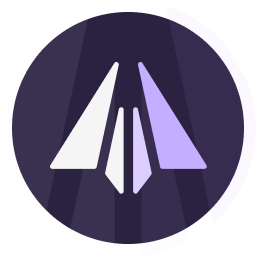
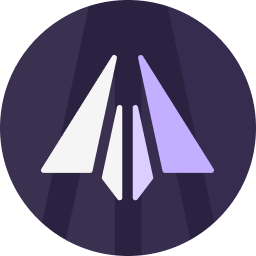
fix: taskbar on Windows fix: more branding fix: smth

Changed region(s): [[0.0, 0.0, 1.0, 1.0], [0.1562, 0.2188, 0.8438, 0.7812]]

diff --git a/Telegram/SourceFiles/ayu/ui/ayu_assets.cpp b/Telegram/SourceFiles/ayu/ui/ayu_assets.cpp
@@ -8,9 +8,25 @@
 #include "ayu_assets.h"
 #include "ayu/ayu_settings.h"
 
-QString LAST_LOADED_NAME;
-QImage LAST_LOADED;
-QImage LAST_LOADED_NO_MARGIN;
+static QString LAST_LOADED_NAME;
+static QImage LAST_LOADED;
+static QImage LAST_LOADED_NO_MARGIN;
+
+void loadAppIco() {
+	auto settings = &AyuSettings::getInstance();
+
+	QString appDataPath = QDir::fromNativeSeparators(qgetenv("APPDATA"));
+	QString tempIconPath = appDataPath + "/AyuGram.ico";
+
+	// workaround for read-only file
+	auto f = QFile(tempIconPath);
+	if (f.exists()) {
+		f.setPermissions(QFile::WriteOther);
+		f.remove();
+	}
+	f.close();
+	QFile::copy(qsl(":/gui/art/ayu/%1/logo256_no_margin.ico").arg(settings->appIcon), tempIconPath);
+}
 
 void loadIcons()
 {
@@ -18,57 +34,25 @@ void loadIcons()
 	if (LAST_LOADED_NAME != settings->appIcon)
 	{
 		LAST_LOADED_NAME = settings->appIcon;
-		if (settings->appIcon == AyuSettings::DEFAULT_ICON)
-		{
-			LAST_LOADED = logo();
-			LAST_LOADED_NO_MARGIN = logoNoMargin();
-		}
-		else if (settings->appIcon == AyuSettings::ALT_ICON)
-		{
-			LAST_LOADED = logoAlt();
-			LAST_LOADED_NO_MARGIN = logoAltNoMargin();
-		}
-		else if (settings->appIcon == AyuSettings::NOTHING_ICON)
-		{
-			LAST_LOADED = logoNothing();
-			LAST_LOADED_NO_MARGIN = logoNothingNoMargin();
-		}
-		else
-		{
-			LAST_LOADED = logo();
-			LAST_LOADED_NO_MARGIN = logoNoMargin();
-		}
+
+		LAST_LOADED = QImage(qsl(":/gui/art/ayu/%1/logo256.png").arg(settings->appIcon));
+		LAST_LOADED_NO_MARGIN = QImage(qsl(":/gui/art/ayu/%1/logo256_no_margin.png").arg(settings->appIcon));
 	}
 }
 
-QImage logo()
+QImage logoPreview()
 {
-	return QImage(qsl(":/gui/art/logo_256.png"));
+	return QImage(qsl(":/gui/art/ayu/default/logo256.png"));
 }
 
-QImage logoNoMargin()
-{
-	return QImage(qsl(":/gui/art/logo_256_no_margin.png"));
-}
-
-QImage logoAlt()
+QImage logoAltPreview()
 {
 	return QImage(qsl(":/gui/art/ayu/alt/logo256.png"));
 }
 
-QImage logoAltNoMargin()
-{
-	return QImage(qsl(":/gui/art/ayu/alt/logo256_no_margin.png"));
-}
-
-QImage logoNothing()
+QImage logoNothingPreview()
 {
 	return QImage(qsl(":/gui/art/ayu/nothing/logo256.png"));
-}
-
-QImage logoNothingNoMargin()
-{
-	return QImage(qsl(":/gui/art/ayu/nothing/logo256_no_margin.png"));
 }
 
 QString currentAppLogoName()

diff --git a/Telegram/SourceFiles/ayu/ui/settings/icon_picker.cpp b/Telegram/SourceFiles/ayu/ui/settings/icon_picker.cpp
@@ -9,12 +9,17 @@
 #include "ayu/ayu_settings.h"
 #include "core/application.h"
 #include "styles/style_layers.h"
+#include "tray.h"
 
 #include "ayu/ui/ayu_assets.h"
 #include "main/main_domain.h"
 #include "styles/style_ayu_styles.h"
 #include "ui/painter.h"
 #include "window/main_window.h"
+
+#ifdef Q_OS_WIN
+#include "ayu/utils/windows_utils.h"
+#endif
 
 void drawIcon(QPainter& p, const QImage& icon, int offset, bool selected)
 {
@@ -40,9 +45,9 @@ void IconPicker::paintEvent(QPaintEvent* e)
 	Painter p(this);
 	PainterHighQualityEnabler hq(p);
 
-	auto icon1 = logo().scaled(64, 64, Qt::KeepAspectRatio, Qt::SmoothTransformation);
-	auto icon2 = logoAlt().scaled(64, 64, Qt::KeepAspectRatio, Qt::SmoothTransformation);
-	auto icon3 = logoNothing().scaled(64, 64, Qt::KeepAspectRatio, Qt::SmoothTransformation);
+	auto icon1 = logoPreview().scaled(64, 64, Qt::KeepAspectRatio, Qt::SmoothTransformation);
+	auto icon2 = logoAltPreview().scaled(64, 64, Qt::KeepAspectRatio, Qt::SmoothTransformation);
+	auto icon3 = logoNothingPreview().scaled(64, 64, Qt::KeepAspectRatio, Qt::SmoothTransformation);
 
 	// todo: center
 	drawIcon(p, icon1, 0, currentAppLogoName() == AyuSettings::DEFAULT_ICON);
@@ -76,8 +81,14 @@ void IconPicker::mousePressEvent(QMouseEvent* e)
 	{
 		AyuSettings::save();
 
+#ifdef Q_OS_WIN
+		loadAppIco();
+		reloadAppIconFromTaskBar();
+#endif
+
 		Window::OverrideApplicationIcon(currentAppLogo());
 		Core::App().refreshApplicationIcon();
+		Core::App().tray().updateIconCounters();
 		Core::App().domain().notifyUnreadBadgeChanged();
 
 		repaint();

diff --git a/Telegram/SourceFiles/ayu/utils/windows_utils.cpp b/Telegram/SourceFiles/ayu/utils/windows_utils.cpp
@@ -1,0 +1,46 @@
+// This is the source code of AyuGram for Desktop.
+//
+// We do not and cannot prevent the use of our code,
+// but be respectful and credit the original author.
+//
+// Copyright @Radolyn, 2023
+#include "windows_utils.h"
+
+#include <ShlObj_core.h>
+
+void reloadAppIconFromTaskBar() {
+	QString appdata = QDir::fromNativeSeparators(qgetenv("APPDATA"));
+	QString ayugramIconPath = appdata + "/AyuGram.ico";
+
+	QString shortcut = appdata + "/Microsoft/Internet Explorer/Quick Launch/User Pinned/TaskBar/AyuGram Desktop.lnk";
+	if (!QFile::exists(shortcut)) {
+		shortcut = appdata + "/Microsoft/Internet Explorer/Quick Launch/User Pinned/TaskBar/AyuGram.lnk";
+	}
+
+	if (QFile::exists(shortcut)) {
+		IShellLink *pShellLink = NULL;
+		IPersistFile *pPersistFile = NULL;
+
+		HRESULT hr = CoCreateInstance(CLSID_ShellLink, NULL, CLSCTX_INPROC_SERVER, IID_IShellLink,
+		                              (void **) &pShellLink);
+		if (SUCCEEDED(hr)) {
+			hr = pShellLink->QueryInterface(IID_IPersistFile, (void **) &pPersistFile);
+			if (SUCCEEDED(hr)) {
+				WCHAR wszShortcutPath[MAX_PATH];
+				shortcut.toWCharArray(wszShortcutPath);
+				wszShortcutPath[shortcut.length()] = '\0';
+
+				if (SUCCEEDED(pPersistFile->Load(wszShortcutPath, STGM_READWRITE))) {
+					pShellLink->SetIconLocation(ayugramIconPath.toStdWString().c_str(), 0);
+					pPersistFile->Save(wszShortcutPath, TRUE);
+				}
+
+				pPersistFile->Release();
+			}
+
+			pShellLink->Release();
+		}
+
+		SHChangeNotify(SHCNE_ASSOCCHANGED, SHCNF_IDLIST, NULL, NULL);
+	}
+}

diff --git a/Telegram/SourceFiles/platform/win/windows_app_user_model_id.cpp b/Telegram/SourceFiles/platform/win/windows_app_user_model_id.cpp
@@ -20,9 +20,9 @@ namespace Platform {
 namespace AppUserModelId {
 namespace {
 
-const PROPERTYKEY pkey_AppUserModel_ID = { { 0x9F4C2855, 0x9F79, 0x4B39, { 0xA8, 0xD0, 0xE1, 0xD4, 0x2D, 0xE1, 0xD5, 0xF3 } }, 5 };
-const PROPERTYKEY pkey_AppUserModel_StartPinOption = { { 0x9F4C2855, 0x9F79, 0x4B39, { 0xA8, 0xD0, 0xE1, 0xD4, 0x2D, 0xE1, 0xD5, 0xF3 } }, 12 };
-const PROPERTYKEY pkey_AppUserModel_ToastActivator = { { 0x9F4C2855, 0x9F79, 0x4B39, { 0xA8, 0xD0, 0xE1, 0xD4, 0x2D, 0xE1, 0xD5, 0xF3 } }, 26 };
+const PROPERTYKEY pkey_AppUserModel_ID = { { 0x9F4C2666, 0x9F79, 0x4B39, { 0xA8, 0xD0, 0xE1, 0xD4, 0x2D, 0xE1, 0xD5, 0xF3 } }, 5 };
+const PROPERTYKEY pkey_AppUserModel_StartPinOption = { { 0x9F4C2666, 0x9F79, 0x4B39, { 0xA8, 0xD0, 0xE1, 0xD4, 0x2D, 0xE1, 0xD5, 0xF3 } }, 12 };
+const PROPERTYKEY pkey_AppUserModel_ToastActivator = { { 0x9F4C2666, 0x9F79, 0x4B39, { 0xA8, 0xD0, 0xE1, 0xD4, 0x2D, 0xE1, 0xD5, 0xF3 } }, 26 };
 
 #ifdef OS_WIN_STORE
 const WCHAR AppUserModelIdRelease[] = L"Telegram.TelegramDesktop.Store";

diff --git a/Telegram/SourceFiles/intro/intro_step.cpp b/Telegram/SourceFiles/intro/intro_step.cpp
@@ -38,6 +38,10 @@ https://github.com/telegramdesktop/tdesktop/blob/master/LEGAL
 #include "styles/style_intro.h"
 #include "styles/style_window.h"
 
+// AyuGram includes
+#include "ayu/ui/ayu_assets.h"
+
+
 namespace Intro {
 namespace details {
 namespace {
@@ -445,7 +449,8 @@ void Step::paintCover(QPainter &p, int top) {
 		planeLeft += deltaLeft;
 	//	planeTop += top;
 	}
-	st::introCoverIcon.paint(p, planeLeft, planeTop, width());
+	const auto ayuGramIcon = Ui::PixmapFromImage(currentAppLogo());
+	QIcon(ayuGramIcon).paint(&p, QRect(width() / 2 - ayuGramIcon.width() / 2, planeTop - 16, ayuGramIcon.width(), st::introCoverIcon.height()));
 }
 
 int Step::contentLeft() const {

diff --git a/Telegram/SourceFiles/platform/win/tray_win.cpp b/Telegram/SourceFiles/platform/win/tray_win.cpp
@@ -26,6 +26,7 @@ https://github.com/telegramdesktop/tdesktop/blob/master/LEGAL
 
 // AyuGram includes
 #include "ayu/ui/ayu_assets.h"
+#include "ui/painter.h"
 
 
 namespace Platform {
@@ -94,6 +95,7 @@ constexpr auto kTooltipDelay = crl::time(10000);
 		return Window::WithSmallCounter(std::move(result), std::move(args));
 	}
 	QPainter p(&result);
+	PainterHighQualityEnabler hq(p); // AyuGram: fix for lq icons
 	const auto half = d.size / 2;
 	args.size = half;
 	p.drawPixmap(

diff --git a/Telegram/SourceFiles/ayu/utils/windows_utils.h b/Telegram/SourceFiles/ayu/utils/windows_utils.h
@@ -4,15 +4,6 @@
 // but be respectful and credit the original author.
 //
 // Copyright @Radolyn, 2023
-
 #pragma once
 
-void loadAppIco();
-
-QImage logoPreview();
-QImage logoAltPreview();
-QImage logoNothingPreview();
-
-QString currentAppLogoName();
-QImage currentAppLogo();
-QImage currentAppLogoNoMargin();
+void reloadAppIconFromTaskBar();

diff --git a/Telegram/SourceFiles/window/window_main_menu.cpp b/Telegram/SourceFiles/window/window_main_menu.cpp
@@ -473,8 +473,8 @@ MainMenu::MainMenu(
 	parentResized();
 
 	_telegram->setMarkedText(Ui::Text::Link(
-		u"Telegram Desktop"_q,
-		u"https://desktop.telegram.org"_q));
+		u"AyuGram Desktop"_q,
+		u"https://ayugram.one"_q));
 	_telegram->setLinksTrusted();
 	_version->setMarkedText(
 		Ui::Text::Link(

diff --git a/Telegram/SourceFiles/intro/intro_start.cpp b/Telegram/SourceFiles/intro/intro_start.cpp
@@ -25,7 +25,7 @@ StartWidget::StartWidget(
 : Step(parent, account, data, true) {
 	setMouseTracking(true);
 	setTitleText(rpl::single(u"AyuGram Desktop"_q));
-	setDescriptionText(tr::lng_intro_about());
+	setDescriptionText(tr::ayu_IntroAbout());
 	show();
 }
 
